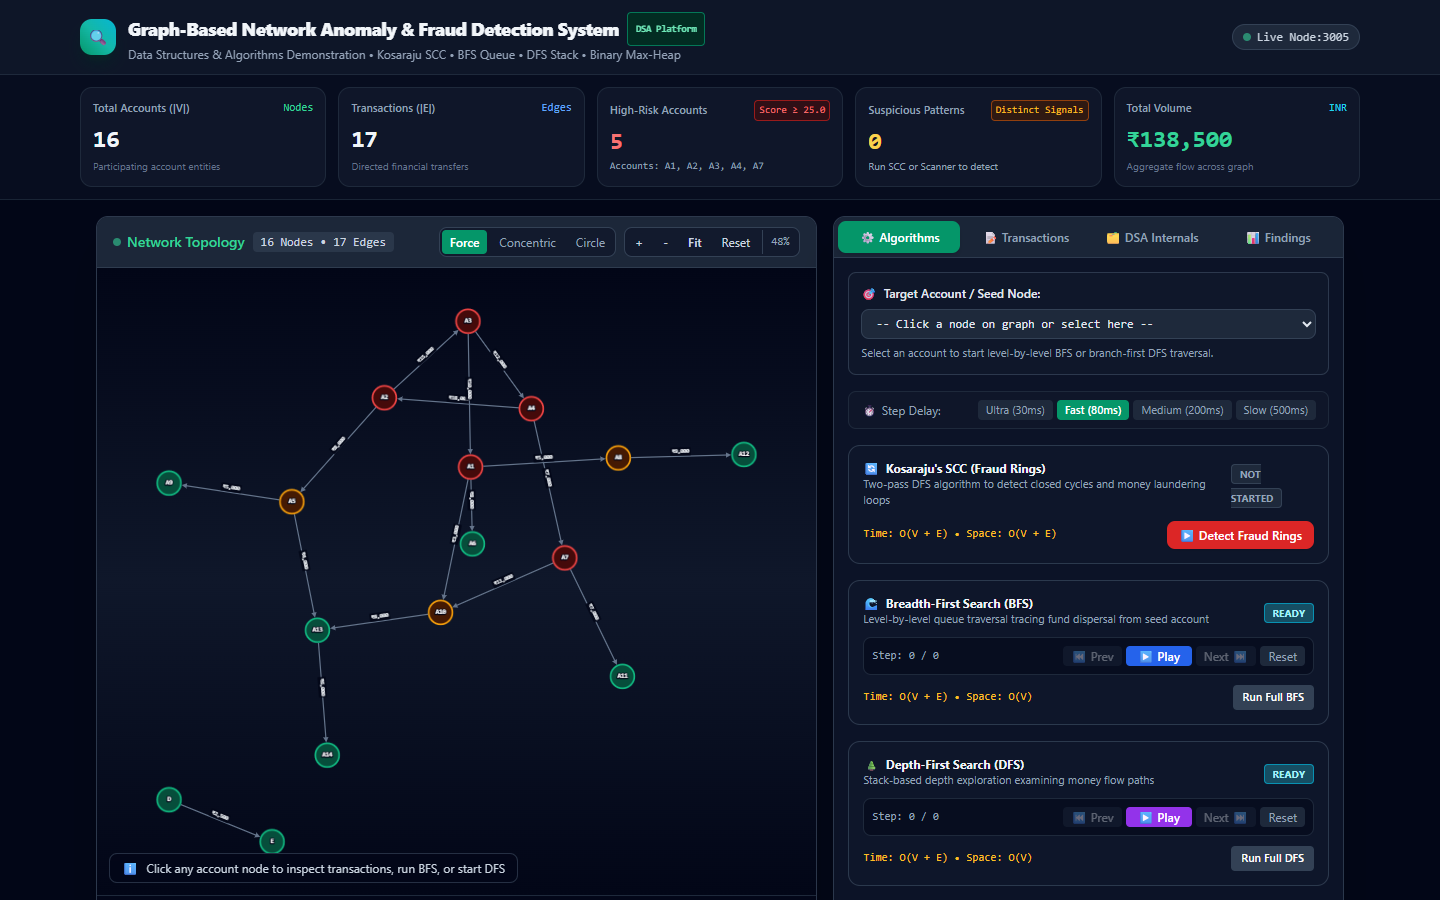
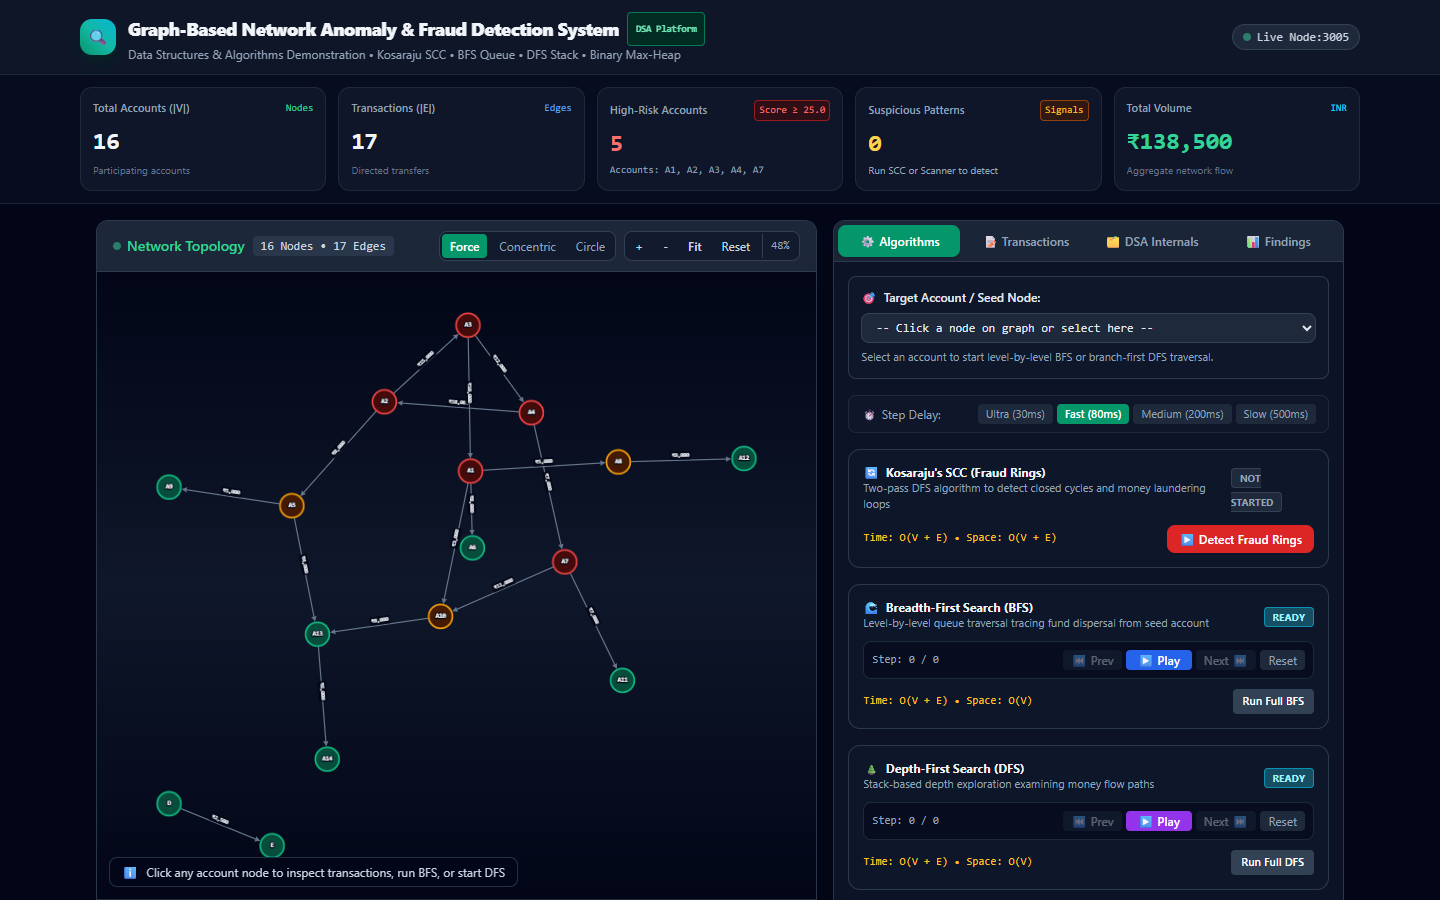
feat: enhance responsive layout, mobile 2x2 tab grid, touch controls, and table overflow

diff --git a/src/App.tsx b/src/App.tsx
@@ -553,90 +553,90 @@ function App() {
 
       {/* Top KPI Summary Metrics Cards */}
       <section className="bg-slate-900/40 border-b border-slate-800/80 px-4 py-3 shrink-0">
-        <div className="max-w-7xl mx-auto grid grid-cols-2 sm:grid-cols-3 lg:grid-cols-5 gap-3">
+        <div className="max-w-7xl mx-auto grid grid-cols-2 sm:grid-cols-3 lg:grid-cols-5 gap-2.5 sm:gap-3">
           {/* Card 1: Total Accounts */}
           <div
-            className="bg-slate-900/90 hover:bg-slate-900 border border-slate-800 hover:border-slate-700 transition-all rounded-xl p-3 flex flex-col justify-between shadow-sm cursor-help"
+            className="h-full min-h-[96px] sm:min-h-[104px] bg-slate-900/90 hover:bg-slate-900 border border-slate-800 hover:border-slate-700 transition-all rounded-xl p-2.5 sm:p-3 flex flex-col justify-between shadow-sm cursor-help"
             title="Total Accounts (|V|): Count of distinct account entities transacting in the directed graph."
           >
-            <div className="text-[11px] font-medium text-slate-400 flex items-center justify-between">
+            <div className="text-[10px] sm:text-[11px] font-medium text-slate-400 flex items-center justify-between">
               <span>Total Accounts (|V|)</span>
-              <span className="text-emerald-400 font-mono">Nodes</span>
+              <span className="text-emerald-400 font-mono text-[10px]">Nodes</span>
             </div>
-            <div className="text-xl sm:text-2xl font-extrabold text-slate-100 font-mono mt-1">
+            <div className="text-lg sm:text-2xl font-extrabold text-slate-100 font-mono mt-1">
               {graphData.nodes.length}
             </div>
-            <div className="text-[10px] text-slate-500 mt-0.5">Participating account entities</div>
+            <div className="text-[9px] sm:text-[10px] text-slate-500 mt-0.5 truncate">Participating accounts</div>
           </div>
 
           {/* Card 2: Total Transactions */}
           <div
-            className="bg-slate-900/90 hover:bg-slate-900 border border-slate-800 hover:border-slate-700 transition-all rounded-xl p-3 flex flex-col justify-between shadow-sm cursor-help"
+            className="h-full min-h-[96px] sm:min-h-[104px] bg-slate-900/90 hover:bg-slate-900 border border-slate-800 hover:border-slate-700 transition-all rounded-xl p-2.5 sm:p-3 flex flex-col justify-between shadow-sm cursor-help"
             title="Transactions (|E|): Total directed monetary transfer edges connecting account pairs."
           >
-            <div className="text-[11px] font-medium text-slate-400 flex items-center justify-between">
+            <div className="text-[10px] sm:text-[11px] font-medium text-slate-400 flex items-center justify-between">
               <span>Transactions (|E|)</span>
-              <span className="text-blue-400 font-mono">Edges</span>
+              <span className="text-blue-400 font-mono text-[10px]">Edges</span>
             </div>
-            <div className="text-xl sm:text-2xl font-extrabold text-slate-100 font-mono mt-1">
+            <div className="text-lg sm:text-2xl font-extrabold text-slate-100 font-mono mt-1">
               {graphData.edges.length}
             </div>
-            <div className="text-[10px] text-slate-500 mt-0.5">Directed financial transfers</div>
+            <div className="text-[9px] sm:text-[10px] text-slate-500 mt-0.5 truncate">Directed transfers</div>
           </div>
 
           {/* Card 3: High-Risk Accounts */}
           <div
-            className="bg-slate-900/90 hover:bg-slate-900 border border-slate-800 hover:border-slate-700 transition-all rounded-xl p-3 flex flex-col justify-between shadow-sm cursor-help"
+            className="h-full min-h-[96px] sm:min-h-[104px] bg-slate-900/90 hover:bg-slate-900 border border-slate-800 hover:border-slate-700 transition-all rounded-xl p-2.5 sm:p-3 flex flex-col justify-between shadow-sm cursor-help"
             title="High-Risk Accounts: Accounts with calculated Risk Score ≥ 25.0 based on OutDegree, SCC ClusterSize, and OutAmount."
           >
-            <div className="text-[11px] font-medium text-slate-400 flex items-center justify-between">
+            <div className="text-[10px] sm:text-[11px] font-medium text-slate-400 flex items-center justify-between">
               <span>High-Risk Accounts</span>
-              <span className="text-red-400 font-mono text-[10px] bg-red-950/60 px-1 py-0.5 rounded border border-red-800">
+              <span className="text-red-400 font-mono text-[9px] sm:text-[10px] bg-red-950/60 px-1 py-0.5 rounded border border-red-800">
                 Score ≥ 25.0
               </span>
             </div>
-            <div className="text-xl sm:text-2xl font-extrabold text-red-400 font-mono mt-1">
+            <div className="text-lg sm:text-2xl font-extrabold text-red-400 font-mono mt-1">
               {highRiskCount}
             </div>
-            <div className="text-[10px] text-slate-400 mt-0.5 font-mono">
+            <div className="text-[9px] sm:text-[10px] text-slate-400 mt-0.5 font-mono truncate">
               Accounts: A1, A2, A3, A4, A7
             </div>
           </div>
 
           {/* Card 4: Detected Suspicious Patterns */}
           <div
-            className="bg-slate-900/90 hover:bg-slate-900 border border-slate-800 hover:border-slate-700 transition-all rounded-xl p-3 flex flex-col justify-between shadow-sm cursor-help"
+            className="h-full min-h-[96px] sm:min-h-[104px] bg-slate-900/90 hover:bg-slate-900 border border-slate-800 hover:border-slate-700 transition-all rounded-xl p-2.5 sm:p-3 flex flex-col justify-between shadow-sm cursor-help"
             title="Suspicious Patterns: De-duplicated count of SCC-detected fraud rings + heuristic scanner anomalies (Disbursement Hubs, Aggregation Funnels, High-Value Flows)."
           >
-            <div className="text-[11px] font-medium text-slate-400 flex items-center justify-between">
+            <div className="text-[10px] sm:text-[11px] font-medium text-slate-400 flex items-center justify-between">
               <span>Suspicious Patterns</span>
-              <span className="text-amber-400 font-mono text-[10px] bg-amber-950/60 px-1 py-0.5 rounded border border-amber-800">
-                Distinct Signals
+              <span className="text-amber-400 font-mono text-[9px] sm:text-[10px] bg-amber-950/60 px-1 py-0.5 rounded border border-amber-800">
+                Signals
               </span>
             </div>
-            <div className="text-xl sm:text-2xl font-extrabold text-amber-300 font-mono mt-1">
+            <div className="text-lg sm:text-2xl font-extrabold text-amber-300 font-mono mt-1">
               {detectedPatternsCount}
             </div>
-            <div className="text-[10px] text-slate-400 mt-0.5">
+            <div className="text-[9px] sm:text-[10px] text-slate-400 mt-0.5 truncate">
               {sccs.filter((s) => s.nodes.length >= 2).length > 0 || anomalies.length > 0
-                ? `${sccs.filter((s) => s.nodes.length >= 2).length} Fraud Ring (SCC) • ${anomalies.length} Scanner Anom.`
+                ? `${sccs.filter((s) => s.nodes.length >= 2).length} Ring (SCC) • ${anomalies.length} Anom.`
                 : 'Run SCC or Scanner to detect'}
             </div>
           </div>
 
           {/* Card 5: Total Transaction Volume */}
           <div
-            className="col-span-2 sm:col-span-1 bg-slate-900/90 hover:bg-slate-900 border border-slate-800 hover:border-slate-700 transition-all rounded-xl p-3 flex flex-col justify-between shadow-sm cursor-help"
+            className="col-span-2 sm:col-span-1 h-full min-h-[96px] sm:min-h-[104px] bg-slate-900/90 hover:bg-slate-900 border border-slate-800 hover:border-slate-700 transition-all rounded-xl p-2.5 sm:p-3 flex flex-col justify-between shadow-sm cursor-help"
             title="Total Transaction Volume: Aggregate sum of all directed transfers across the network in Indian Rupee (₹)."
           >
-            <div className="text-[11px] font-medium text-slate-400 flex items-center justify-between">
+            <div className="text-[10px] sm:text-[11px] font-medium text-slate-400 flex items-center justify-between">
               <span>Total Volume</span>
-              <span className="text-cyan-400 font-mono">INR</span>
+              <span className="text-cyan-400 font-mono text-[10px]">INR</span>
             </div>
-            <div className="text-xl sm:text-2xl font-extrabold text-emerald-400 font-mono mt-1">
+            <div className="text-lg sm:text-2xl font-extrabold text-emerald-400 font-mono mt-1">
               ₹{totalVolume.toLocaleString()}
             </div>
-            <div className="text-[10px] text-slate-500 mt-0.5">Aggregate flow across graph</div>
+            <div className="text-[9px] sm:text-[10px] text-slate-500 mt-0.5 truncate">Aggregate network flow</div>
           </div>
         </div>
       </section>
@@ -665,10 +665,10 @@ function App() {
         {/* Right Section: Workspace Panels with Clean Tab Navigation (col-span-5) */}
         <div className="col-span-1 lg:col-span-5 flex flex-col bg-slate-900/80 border border-slate-700/80 rounded-xl overflow-hidden shadow-2xl">
           {/* Tab Navigation Header */}
-          <div className="flex items-center border-b border-slate-700/80 bg-slate-800/80 p-1 gap-1 text-xs shrink-0 overflow-x-auto">
+          <div className="grid grid-cols-2 sm:flex items-center border-b border-slate-700/80 bg-slate-800/80 p-1 gap-1 text-xs shrink-0">
             <button
               onClick={() => setActiveTab('algorithms')}
-              className={`flex-1 min-w-[90px] py-2 px-2.5 rounded-lg font-semibold transition-all text-center flex items-center justify-center gap-1.5 ${
+              className={`flex-1 py-2 px-2 sm:px-2.5 rounded-lg font-semibold transition-all text-center flex items-center justify-center gap-1.5 text-[11px] sm:text-xs ${
                 activeTab === 'algorithms'
                   ? 'bg-emerald-600 text-white shadow-md'
                   : 'text-slate-400 hover:text-slate-200 hover:bg-slate-700/50'
@@ -678,7 +678,7 @@ function App() {
             </button>
             <button
               onClick={() => setActiveTab('transactions')}
-              className={`flex-1 min-w-[90px] py-2 px-2.5 rounded-lg font-semibold transition-all text-center flex items-center justify-center gap-1.5 ${
+              className={`flex-1 py-2 px-2 sm:px-2.5 rounded-lg font-semibold transition-all text-center flex items-center justify-center gap-1.5 text-[11px] sm:text-xs ${
                 activeTab === 'transactions'
                   ? 'bg-emerald-600 text-white shadow-md'
                   : 'text-slate-400 hover:text-slate-200 hover:bg-slate-700/50'
@@ -688,7 +688,7 @@ function App() {
             </button>
             <button
               onClick={() => setActiveTab('datastructures')}
-              className={`flex-1 min-w-[90px] py-2 px-2.5 rounded-lg font-semibold transition-all text-center flex items-center justify-center gap-1.5 ${
+              className={`flex-1 py-2 px-2 sm:px-2.5 rounded-lg font-semibold transition-all text-center flex items-center justify-center gap-1.5 text-[11px] sm:text-xs ${
                 activeTab === 'datastructures'
                   ? 'bg-emerald-600 text-white shadow-md'
                   : 'text-slate-400 hover:text-slate-200 hover:bg-slate-700/50'
@@ -698,7 +698,7 @@ function App() {
             </button>
             <button
               onClick={() => setActiveTab('findings')}
-              className={`flex-1 min-w-[90px] py-2 px-2.5 rounded-lg font-semibold transition-all text-center flex items-center justify-center gap-1.5 ${
+              className={`flex-1 py-2 px-2 sm:px-2.5 rounded-lg font-semibold transition-all text-center flex items-center justify-center gap-1.5 text-[11px] sm:text-xs ${
                 activeTab === 'findings'
                   ? 'bg-emerald-600 text-white shadow-md'
                   : 'text-slate-400 hover:text-slate-200 hover:bg-slate-700/50'
@@ -712,7 +712,7 @@ function App() {
           </div>
 
           {/* Tab Content Body */}
-          <div className="flex-1 p-3.5 overflow-y-auto max-h-[calc(100vh-230px)] scrollbar-thin scrollbar-thumb-slate-700">
+          <div className="flex-1 p-3 sm:p-3.5 overflow-y-auto lg:max-h-[calc(100vh-230px)] scrollbar-thin scrollbar-thumb-slate-700">
             {activeTab === 'transactions' && (
               <EdgeInputPanel
                 transactions={transactions}

diff --git a/src/components/GraphVisualization.tsx b/src/components/GraphVisualization.tsx
@@ -379,27 +379,27 @@ export const GraphVisualization: React.FC<GraphVisualizationProps> = ({
   return (
     <div className="flex flex-col h-full bg-slate-900/90 rounded-xl border border-slate-700/80 overflow-hidden shadow-2xl">
       {/* Top Graph Toolbar */}
-      <div className="flex flex-wrap items-center justify-between px-4 py-2.5 bg-slate-800/90 border-b border-slate-700/80 gap-2">
+      <div className="flex flex-wrap items-center justify-between px-3 sm:px-4 py-2 sm:py-2.5 bg-slate-800/90 border-b border-slate-700/80 gap-2">
         <div className="flex items-center space-x-2">
-          <span className="text-sm font-semibold text-emerald-400 flex items-center gap-1.5">
+          <span className="text-xs sm:text-sm font-semibold text-emerald-400 flex items-center gap-1.5">
             <span className="w-2 h-2 rounded-full bg-emerald-400 animate-pulse"></span>
             Network Topology
           </span>
-          <span className="text-xs px-2 py-0.5 rounded bg-slate-700/60 text-slate-300 font-mono">
+          <span className="text-[10px] sm:text-xs px-1.5 sm:px-2 py-0.5 rounded bg-slate-700/60 text-slate-300 font-mono">
             {data.nodes.length} Nodes • {data.edges.length} Edges
           </span>
         </div>
 
         {/* Toolbar Controls */}
-        <div className="flex items-center space-x-2">
+        <div className="flex flex-wrap items-center gap-1 sm:gap-2">
           {/* Layout Selector */}
-          <div className="flex items-center space-x-1 bg-slate-900/80 border border-slate-700 rounded-lg p-0.5 text-xs">
+          <div className="flex items-center space-x-0.5 sm:space-x-1 bg-slate-900/80 border border-slate-700 rounded-lg p-0.5 text-[11px] sm:text-xs">
             <button
               onClick={() => {
                 setLayoutName('cose');
                 if (cyRef.current) runLayout(cyRef.current, 'cose');
               }}
-              className={`px-2 py-1 rounded transition-colors ${
+              className={`px-1.5 sm:px-2 py-0.5 sm:py-1 rounded transition-colors ${
                 layoutName === 'cose' ? 'bg-emerald-600 text-white font-medium' : 'text-slate-400 hover:text-slate-200'
               }`}
               title="Force-Directed Layout (Physics-based spacing)"
@@ -411,7 +411,7 @@ export const GraphVisualization: React.FC<GraphVisualizationProps> = ({
                 setLayoutName('concentric');
                 if (cyRef.current) runLayout(cyRef.current, 'concentric');
               }}
-              className={`px-2 py-1 rounded transition-colors ${
+              className={`px-1.5 sm:px-2 py-0.5 sm:py-1 rounded transition-colors ${
                 layoutName === 'concentric' ? 'bg-emerald-600 text-white font-medium' : 'text-slate-400 hover:text-slate-200'
               }`}
               title="Concentric Circles Layout (Hierarchy by Degree)"
@@ -423,7 +423,7 @@ export const GraphVisualization: React.FC<GraphVisualizationProps> = ({
                 setLayoutName('circle');
                 if (cyRef.current) runLayout(cyRef.current, 'circle');
               }}
-              className={`px-2 py-1 rounded transition-colors ${
+              className={`px-1.5 sm:px-2 py-0.5 sm:py-1 rounded transition-colors ${
                 layoutName === 'circle' ? 'bg-emerald-600 text-white font-medium' : 'text-slate-400 hover:text-slate-200'
               }`}
               title="Circular Ring Layout"
@@ -433,36 +433,36 @@ export const GraphVisualization: React.FC<GraphVisualizationProps> = ({
           </div>
 
           {/* Zoom & Fit Buttons */}
-          <div className="flex items-center space-x-1 bg-slate-900/80 border border-slate-700 rounded-lg p-0.5 text-xs">
+          <div className="flex items-center space-x-0.5 sm:space-x-1 bg-slate-900/80 border border-slate-700 rounded-lg p-0.5 text-[11px] sm:text-xs">
             <button
               onClick={handleZoomIn}
-              className="px-2 py-1 text-slate-300 hover:text-white hover:bg-slate-700 rounded"
+              className="px-1.5 sm:px-2 py-0.5 sm:py-1 text-slate-300 hover:text-white hover:bg-slate-700 rounded"
               title="Zoom In"
             >
               +
             </button>
             <button
               onClick={handleZoomOut}
-              className="px-2 py-1 text-slate-300 hover:text-white hover:bg-slate-700 rounded"
+              className="px-1.5 sm:px-2 py-0.5 sm:py-1 text-slate-300 hover:text-white hover:bg-slate-700 rounded"
               title="Zoom Out"
             >
               -
             </button>
             <button
               onClick={handleFit}
-              className="px-2 py-1 text-slate-300 hover:text-white hover:bg-slate-700 rounded font-medium"
+              className="px-1.5 sm:px-2 py-0.5 sm:py-1 text-slate-300 hover:text-white hover:bg-slate-700 rounded font-medium"
               title="Fit to Screen"
             >
               Fit
             </button>
             <button
               onClick={handleReset}
-              className="px-2 py-1 text-slate-300 hover:text-white hover:bg-slate-700 rounded"
+              className="px-1.5 sm:px-2 py-0.5 sm:py-1 text-slate-300 hover:text-white hover:bg-slate-700 rounded"
               title="Reset View & Layout"
             >
               Reset
             </button>
-            <span className="px-2 py-1 text-slate-400 font-mono text-[11px] border-l border-slate-700">
+            <span className="px-1.5 sm:px-2 py-0.5 sm:py-1 text-slate-400 font-mono text-[10px] sm:text-[11px] border-l border-slate-700">
               {currentZoom}%
             </span>
           </div>
@@ -535,14 +535,14 @@ export const GraphVisualization: React.FC<GraphVisualizationProps> = ({
 
       {/* Selected Account Inspector Drawer */}
       {selectedNodeData && (
-        <div className="border-t border-blue-500/40 bg-slate-950/95 p-3.5 backdrop-blur-md transition-all">
-          <div className="flex items-center justify-between mb-2.5">
-            <div className="flex items-center space-x-3">
-              <span className="w-3 h-3 rounded-full bg-blue-500 animate-ping"></span>
-              <h4 className="text-sm font-bold text-white font-mono flex items-center gap-2">
+        <div className="border-t border-blue-500/40 bg-slate-950/95 p-3 sm:p-3.5 backdrop-blur-md transition-all">
+          <div className="flex flex-wrap items-center justify-between gap-2 mb-2 sm:mb-2.5">
+            <div className="flex flex-wrap items-center gap-1.5 sm:gap-2">
+              <span className="w-2.5 h-2.5 rounded-full bg-blue-500 animate-ping"></span>
+              <h4 className="text-xs sm:text-sm font-bold text-white font-mono flex flex-wrap items-center gap-1.5 sm:gap-2">
                 Account {selectedNodeData.id}
                 <span
-                  className={`px-2 py-0.5 rounded text-[11px] font-bold ${
+                  className={`px-1.5 sm:px-2 py-0.5 rounded text-[10px] sm:text-[11px] font-bold ${
                     selectedNodeData.risk === 'high'
                       ? 'bg-red-900/60 text-red-300 border border-red-600'
                       : selectedNodeData.risk === 'medium'
@@ -553,7 +553,7 @@ export const GraphVisualization: React.FC<GraphVisualizationProps> = ({
                   {selectedNodeData.risk.toUpperCase()} RISK ({selectedNodeData.riskScore.toFixed(1)} pts)
                 </span>
                 {selectedNodeData.clusterSize >= 2 && (
-                  <span className="px-2 py-0.5 rounded text-[10px] font-mono font-bold bg-purple-950 text-purple-300 border border-purple-700">
+                  <span className="px-1.5 sm:px-2 py-0.5 rounded text-[9px] sm:text-[10px] font-mono font-bold bg-purple-950 text-purple-300 border border-purple-700">
                     SCC Ring Member (Size: {selectedNodeData.clusterSize})
                   </span>
                 )}
@@ -569,7 +569,7 @@ export const GraphVisualization: React.FC<GraphVisualizationProps> = ({
           </div>
 
           {/* Mathematical score derivation */}
-          <div className="mb-2 px-2.5 py-1 rounded bg-slate-900/90 border border-slate-800 text-[11px] font-mono text-slate-300 flex flex-wrap items-center justify-between gap-1">
+          <div className="mb-2 px-2.5 py-1 rounded bg-slate-900/90 border border-slate-800 text-[10px] sm:text-[11px] font-mono text-slate-300 flex flex-wrap items-center justify-between gap-1 break-words">
             <span>
               <strong className="text-slate-400">Score Derivation:</strong> ({selectedNodeData.outDegree} Out × 2) + ({selectedNodeData.clusterSize} SCC Cluster × 3) + (₹{selectedNodeData.outAmount.toLocaleString()} / 1000) = <strong className="text-amber-400">{selectedNodeData.riskScore.toFixed(1)} pts</strong>
             </span>

diff --git a/src/components/ControlPanel.tsx b/src/components/ControlPanel.tsx
@@ -140,11 +140,11 @@ export const ControlPanel: React.FC<ControlPanelProps> = ({
       </div>
 
       {/* Animation Speed Controller */}
-      <div className="flex items-center justify-between bg-slate-900/70 border border-slate-800 rounded-lg px-3 py-2 text-xs">
+      <div className="flex flex-wrap items-center justify-between gap-1.5 bg-slate-900/70 border border-slate-800 rounded-lg px-2.5 sm:px-3 py-2 text-xs">
         <span className="text-slate-400 flex items-center gap-1">
           <span>⏱</span> Step Delay:
         </span>
-        <div className="flex items-center space-x-1">
+        <div className="flex flex-wrap items-center gap-1">
           {[
             { label: 'Ultra (30ms)', val: 30 },
             { label: 'Fast (80ms)', val: 80 },
@@ -208,11 +208,11 @@ export const ControlPanel: React.FC<ControlPanelProps> = ({
 
         {/* Step controls for BFS */}
         <div className="bg-slate-950/60 p-2 rounded-lg border border-slate-800 space-y-2">
-          <div className="flex items-center justify-between text-xs">
+          <div className="flex flex-wrap items-center justify-between gap-1.5 text-xs">
             <span className="text-slate-400 font-mono text-[11px]">
               Step: {bfsStepIndex} / {Math.max(0, bfsTotalSteps - 1)}
             </span>
-            <div className="flex items-center space-x-1">
+            <div className="flex flex-wrap items-center gap-1">
               <button
                 type="button"
                 onClick={onPrevBFS}
@@ -282,11 +282,11 @@ export const ControlPanel: React.FC<ControlPanelProps> = ({
 
         {/* Step controls for DFS */}
         <div className="bg-slate-950/60 p-2 rounded-lg border border-slate-800 space-y-2">
-          <div className="flex items-center justify-between text-xs">
+          <div className="flex flex-wrap items-center justify-between gap-1.5 text-xs">
             <span className="text-slate-400 font-mono text-[11px]">
               Step: {dfsStepIndex} / {Math.max(0, dfsTotalSteps - 1)}
             </span>
-            <div className="flex items-center space-x-1">
+            <div className="flex flex-wrap items-center gap-1">
               <button
                 type="button"
                 onClick={onPrevDFS}

diff --git a/src/components/EdgeInputPanel.tsx b/src/components/EdgeInputPanel.tsx
@@ -256,8 +256,8 @@ export const EdgeInputPanel: React.FC<EdgeInputPanelProps> = ({
       {/* Mode 1: Table Editor */}
       {inputMode === 'table' ? (
         <div className="space-y-2">
-          <div className="max-h-56 overflow-y-auto border border-slate-700/80 rounded-lg bg-slate-900/60 scrollbar-thin scrollbar-thumb-slate-700">
-            <table className="w-full text-xs text-left">
+          <div className="max-h-60 overflow-y-auto overflow-x-auto border border-slate-700/80 rounded-lg bg-slate-900/60 scrollbar-thin scrollbar-thumb-slate-700">
+            <table className="min-w-[420px] w-full text-xs text-left">
               <thead className="bg-slate-800/90 text-slate-300 sticky top-0 border-b border-slate-700 z-10">
                 <tr>
                   <th className="py-1.5 px-2 font-semibold">#</th>
@@ -316,7 +316,7 @@ export const EdgeInputPanel: React.FC<EdgeInputPanelProps> = ({
             </table>
           </div>
 
-          <div className="flex items-center justify-between pt-1">
+          <div className="flex flex-wrap items-center justify-between gap-2 pt-1">
             <button
               type="button"
               onClick={handleAddRow}

diff --git a/src/components/AlgorithmStatusPanel.tsx b/src/components/AlgorithmStatusPanel.tsx
@@ -173,7 +173,7 @@ export const AlgorithmStatusPanel: React.FC<AlgorithmStatusPanelProps> = ({
                 </div>
 
                 {/* Directed Sequence: A2 → A3 → A4 → A2 */}
-                <div className="bg-slate-950/80 p-2 rounded border border-slate-800 flex items-center justify-between font-mono">
+                <div className="bg-slate-950/80 p-2 rounded border border-slate-800 flex flex-wrap items-center justify-between gap-1 font-mono">
                   <span className="text-emerald-400 font-bold text-xs">{ring.directedSequence}</span>
                   <span className="text-amber-300 font-bold text-xs">₹{ring.totalAmount.toLocaleString()} Cycle Volume</span>
                 </div>
